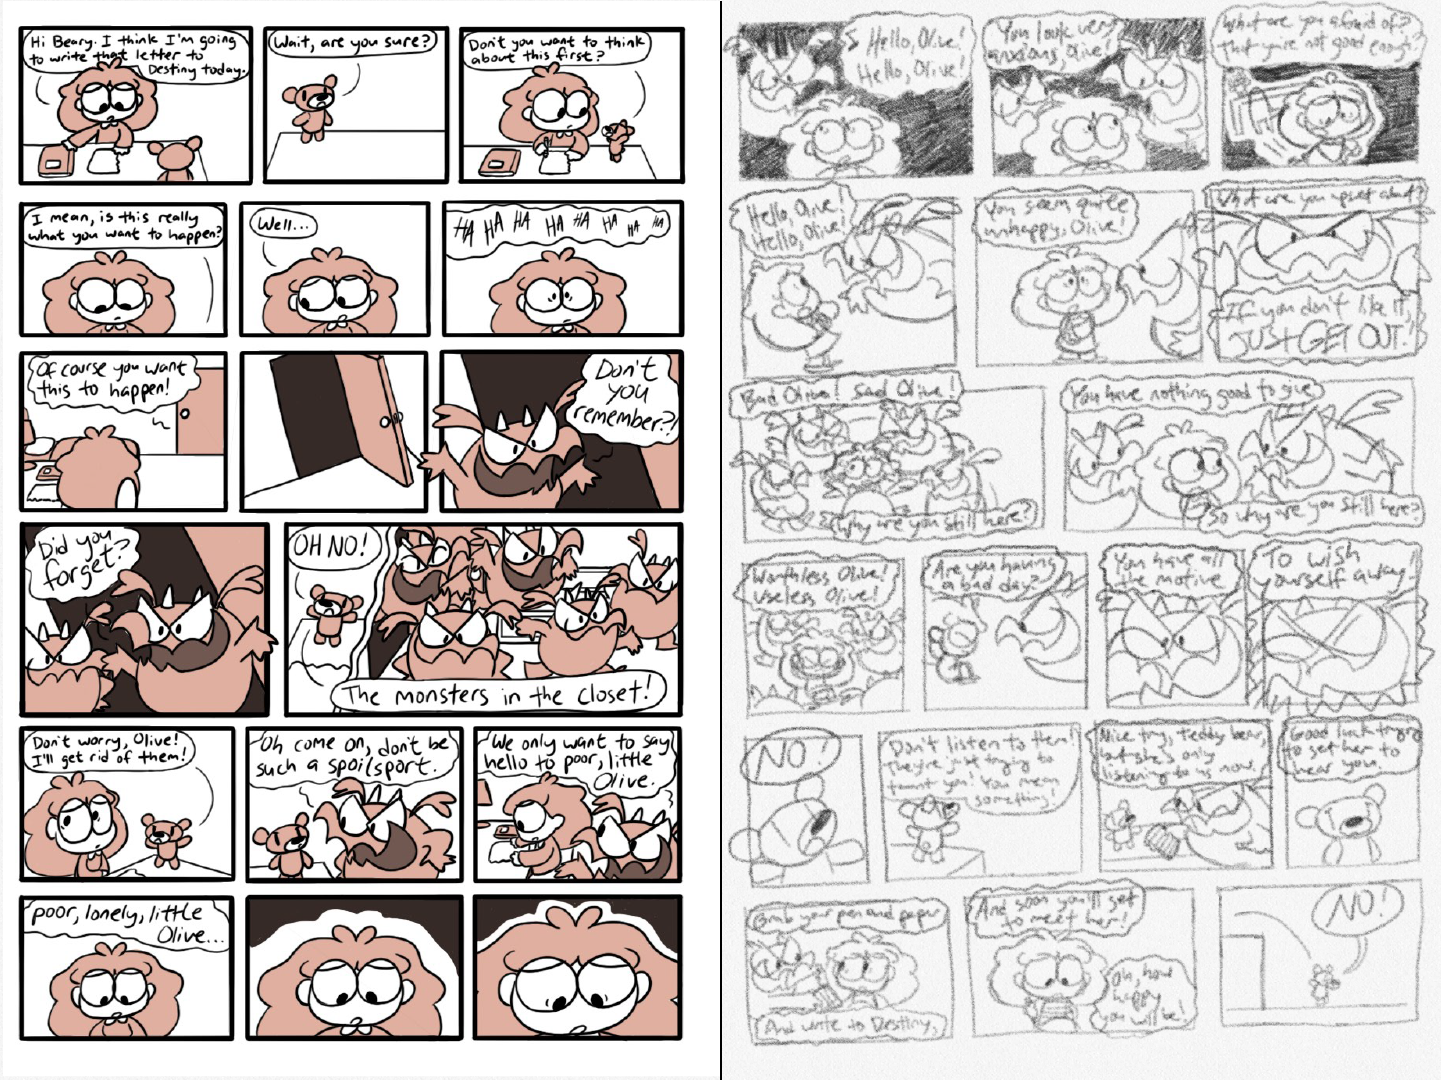
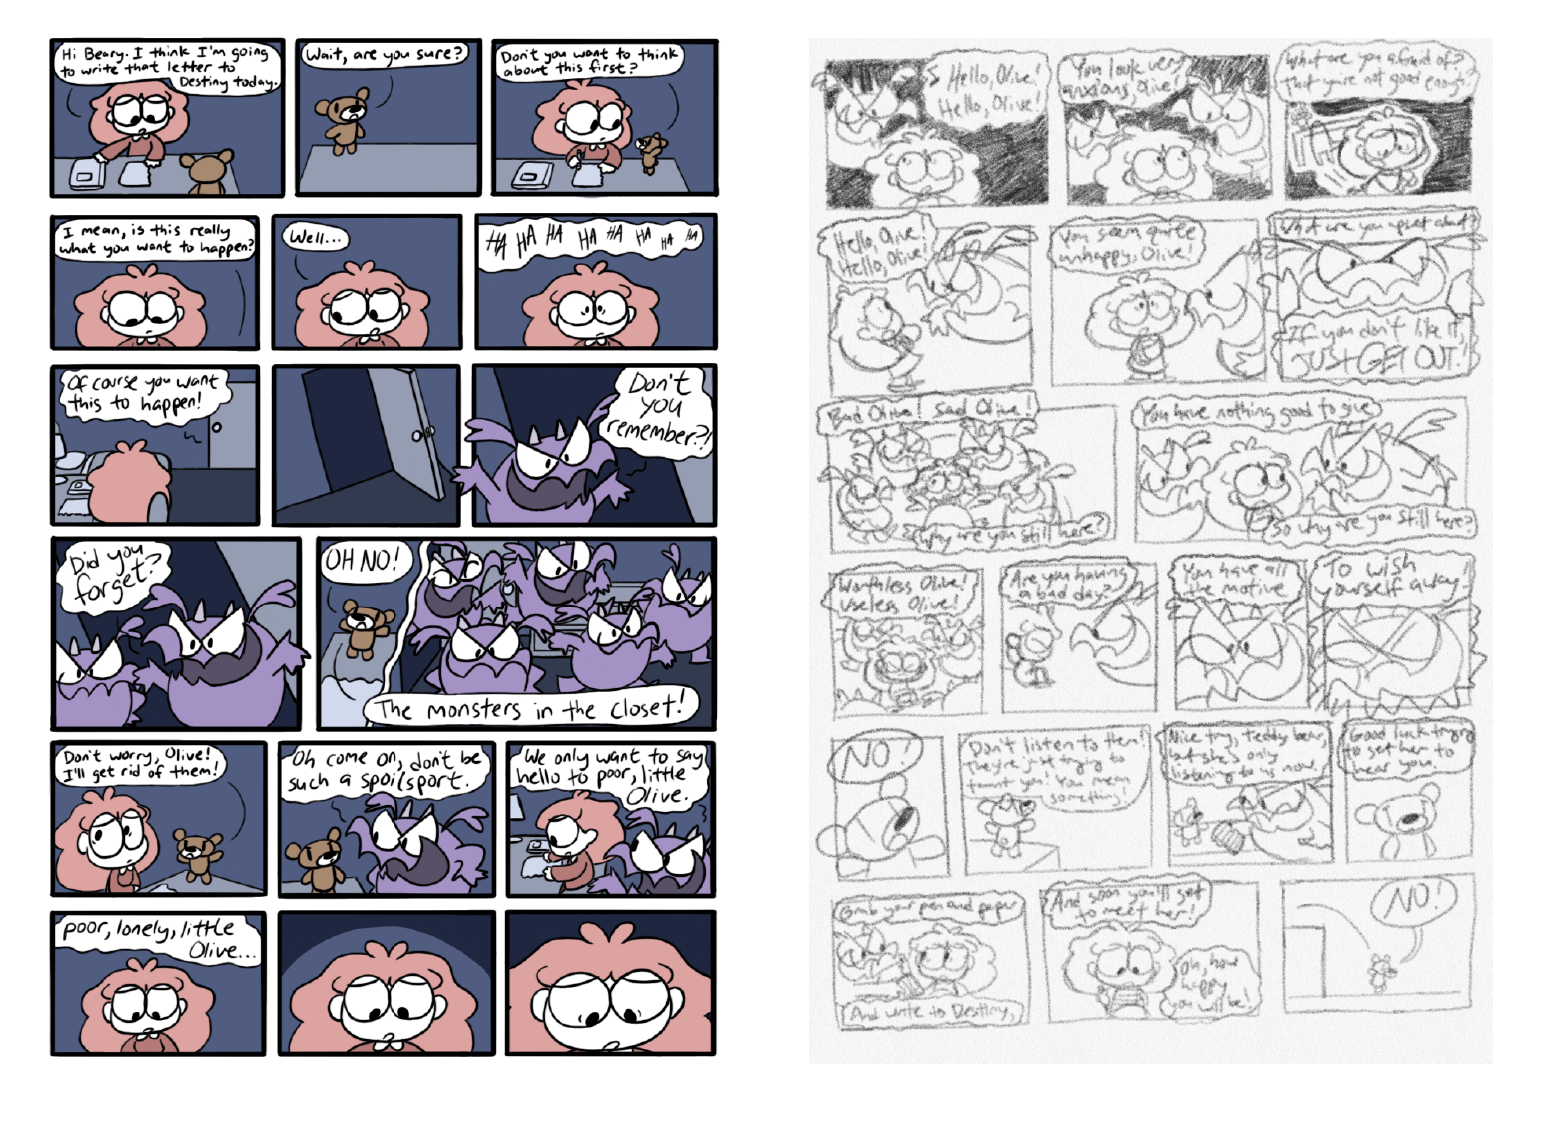
updating style, added new pages

diff --git a/here-and-away/script.js b/here-and-away/script.js
@@ -1,17 +1,31 @@
+var pageImg0 = '<img src="images/cover-page.png" alt="Cover page">';
 var pageImg1 = '<img src="images/page0-1.png" alt="Page 1">';
 var pageImg2 = '<img src="images/page2-3.png" alt="Pages 2-3">';
 var pageImg3 = '<img src="images/page4-5.png" alt="Pages 4-5">';
 var pageImg4 = '<img src="images/page6-7.png" alt="Pages 6-7">';
 var pageImg5 = '<img src="images/page8-9.png" alt="Pages 8-9">';
+var pageImg6 = '<img src="images/page10-11.png" alt="Pages 10-11">';
 
 var songVid1 = '<video width="100%" autoplay onended="stopSong()"><source src="videos/okay.mp4" type="video/mp4"></video>';
-var songVid2 = '<video width="100%" autoplay onended="stopSong()"><source src="videos/monsters.mp4" type="video/mp4"></video>';
+var songVid2 = '<video id="song-video-2" width="100%" autoplay onended="endedSong2()"><source src="videos/monsters.mp4" type="video/mp4"></video>';
 var songVid3 = '<video width="100%" autoplay onended="stopSong()"><source src="videos/deardestiny.mp4" type="video/mp4"></video>';
 var songVid4 = '<video width="100%" autoplay onended="stopSong()"><source src="videos/you.mp4" type="video/mp4"></video>';
 var songVid5 = '<video width="100%" autoplay onended="stopSong()"><source src="videos/okay2.mp4" type="video/mp4"></video>';
 
-var startButton1 = '<button onclick="playSong1()" type="button">Play</button>';
-var endButton1 = '<button onclick="stopSong()" type="button">Stop</button>';
+var startButton1 = '<button id="song-button-1" class="song-buttons font-patrick-hand" onclick="playSong1()" type="button">Play Song #1</button>';
+var endButton1 = '<button id="song-button-1" class="song-buttons font-patrick-hand" onclick="stopSong()" type="button">Stop Song #1</button>';
+
+var startButton2 = '<button id="song-button-2" class="song-buttons font-patrick-hand" onclick="playSong2()" type="button">Play Song #2</button>';
+var endButton2 = '<button id="song-button-2" class="song-buttons font-patrick-hand" onclick="stopSong2()" type="button">Stop Song #2</button>';
+
+var startButton3 = '<button id="song-button-3" class="song-buttons font-patrick-hand" onclick="playSong3()" type="button">Play Song #3</button>';
+var endButton3 = '<button id="song-button-3" class="song-buttons font-patrick-hand" onclick="stopSong()" type="button">Stop Song #3</button>';
+
+var startButton4 = '<button id="song-button-4" class="song-buttons font-patrick-hand" onclick="playSong4()" type="button">Play Song #4</button>';
+var endButton4 = '<button id="song-button-4" class="song-buttons font-patrick-hand" onclick="stopSong()" type="button">Stop Song #4</button>';
+
+var startButton5 = '<button id="song-button-5" class="song-buttons font-patrick-hand" onclick="playSong5()" type="button">Play Song #5</button>';
+var endButton5 = '<button id="song-button-5" class="song-buttons font-patrick-hand" onclick="stopSong()" type="button">Stop Song #5</button>';
 
 var pageContent = document.getElementById("page-content");
 var buttonDiv = document.getElementById("button-div");
@@ -27,67 +41,132 @@ function playSong1() {
     buttonDiv.innerHTML = endButton1;
 }
 
+function playSong2() {
+    pageContent.innerHTML = songVid2;
+    buttonDiv.innerHTML = endButton2;
+    var songVideo2 = document.getElementById("song-video-2");
+    var turnedPage = false;
+    while (turnedPage == false) {
+//        if (songVideo2.ended) {
+//            
+//        }
+        if (songVideo2.currentTime >= 10) {
+            turnedPage = true;
+        }
+    }
+}
+
+function playSong3() {
+    pageContent.innerHTML = songVid3;
+    buttonDiv.innerHTML = endButton3;
+}
+
+function playSong4() {
+    pageContent.innerHTML = songVid4;
+    buttonDiv.innerHTML = endButton4;
+}
+
+function playSong5() {
+    pageContent.innerHTML = songVid5;
+    buttonDiv.innerHTML = endButton5;
+}
+
 function stopSong() {
     if (currPageNum == 1) {
+        pageContent.innerHTML = pageImg0;
+    } else if (currPageNum == 2) {
         pageContent.innerHTML = pageImg1;
         buttonDiv.innerHTML = startButton1;
-    } else if (currPageNum == 2) {
-        pageContent.innerHTML = pageImg2;
     } else if (currPageNum == 3) {
-        pageContent.innerHTML = pageImg3;
+        pageContent.innerHTML = pageImg2;
     } else if (currPageNum == 4) {
-        pageContent.innerHTML = pageImg4;
+        pageContent.innerHTML = pageImg3;
+        buttonDiv.innerHTML = startButton3;
     } else if (currPageNum == 5) {
+        pageContent.innerHTML = pageImg4;
+    } else if (currPageNum == 6) {
         pageContent.innerHTML = pageImg5;
+        buttonDiv.innerHTML = startButton4;
+    } else if (currPageNum == 7) {
+        pageContent.innerHTML = pageImg6;
+        buttonDiv.innerHTML = startButton5;
     }
+}
+
+function stopSong2() {
+    
+}
+
+function endedSong2() {
+    
 }
 
 function goToPrevPage() {
     if (currPageNum == 2) {
-        pageContent.innerHTML = pageImg1;
-        pageNumDisplay.innerHTML = "1/6";
+        pageContent.innerHTML = pageImg0;
+        pageNumDisplay.innerHTML = "1/7";
         currPageNum = 1;
+        buttonDiv.innerHTML = "";
     } else if (currPageNum == 3) {
-        pageContent.innerHTML = pageImg2;
-        pageNumDisplay.innerHTML = "2/6";
+        pageContent.innerHTML = pageImg1;
+        pageNumDisplay.innerHTML = "2/7";
         currPageNum = 2;
+        buttonDiv.innerHTML = startButton1;
     } else if (currPageNum == 4) {
-        pageContent.innerHTML = pageImg3;
-        pageNumDisplay.innerHTML = "3/6";
+        pageContent.innerHTML = pageImg2;
+        pageNumDisplay.innerHTML = "3/7";
         currPageNum = 3;
+        buttonDiv.innerHTML = startButton2;
     } else if (currPageNum == 5) {
-        pageContent.innerHTML = pageImg4;
-        pageNumDisplay.innerHTML = "4/6";
+        pageContent.innerHTML = pageImg3;
+        pageNumDisplay.innerHTML = "4/7";
         currPageNum = 4;
+        buttonDiv.innerHTML = startButton3;
     } else if (currPageNum == 6) {
-        pageContent.innerHTML = pageImg5;
-        pageNumDisplay.innerHTML = "5/6";
+        pageContent.innerHTML = pageImg4;
+        pageNumDisplay.innerHTML = "5/7";
         currPageNum = 5;
+        buttonDiv.innerHTML = "";
+    } else if (currPageNum == 7) {
+        pageContent.innerHTML = pageImg5
+        pageNumDisplay.innerHTML = "6/7";
+        currPageNum = 6;
+        buttonDiv.innerHTML = startButton4;
     }
     updateDisabledButtons();
 }
 
 function goToNextPage() {
     if (currPageNum == 1) {
-        pageContent.innerHTML = pageImg2;
-        pageNumDisplay.innerHTML = "2/6";
+        pageContent.innerHTML = pageImg1;
+        pageNumDisplay.innerHTML = "2/7";
         currPageNum = 2;
+        buttonDiv.innerHTML = startButton1;
     } else if (currPageNum == 2) {
-        pageContent.innerHTML = pageImg3;
-        pageNumDisplay.innerHTML = "3/6";
+        pageContent.innerHTML = pageImg2;
+        pageNumDisplay.innerHTML = "3/7";
         currPageNum = 3;
+        buttonDiv.innerHTML = startButton2;
     } else if (currPageNum == 3) {
-        pageContent.innerHTML = pageImg4;
-        pageNumDisplay.innerHTML = "4/6";
+        pageContent.innerHTML = pageImg3;
+        pageNumDisplay.innerHTML = "4/7";
         currPageNum = 4;
+        buttonDiv.innerHTML = startButton3;
     } else if (currPageNum == 4) {
-        pageContent.innerHTML = pageImg5;
-        pageNumDisplay.innerHTML = "5/6";
+        pageContent.innerHTML = pageImg4;
+        pageNumDisplay.innerHTML = "5/7";
         currPageNum = 5;
+        buttonDiv.innerHTML = "";
     } else if (currPageNum == 5) {
-        pageContent.innerHTML = pageImg6;
-        pageNumDisplay.innerHTML = "6/6";
+        pageContent.innerHTML = pageImg5;
+        pageNumDisplay.innerHTML = "6/7";
         currPageNum = 6;
+        buttonDiv.innerHTML = startButton4;
+    } else if (currPageNum == 6) {
+        pageContent.innerHTML = pageImg6;
+        pageNumDisplay.innerHTML = "7/7";
+        currPageNum = 7;
+        buttonDiv.innerHTML = startButton5;
     }
     updateDisabledButtons();
 }
@@ -97,10 +176,18 @@ updateDisabledButtons();
 function updateDisabledButtons() {
     if (currPageNum == 1) {
         prevButton.disabled = true;
-    } else if (currPageNum == 6) {
+        prevButton.style.opacity = 0.6;
+    } else if (currPageNum == 7) {
         nextButton.disabled = true;
+        nextButton.style.opacity = 0.6;
     } else {
         prevButton.disabled = false;
         nextButton.disabled = false;
+        prevButton.style.opacity = 1;
+        nextButton.style.opacity = 1;
     }
 }
+
+
+//var page = document.getElementById("page");
+

diff --git a/here-and-away/index.html b/here-and-away/index.html
@@ -3,29 +3,35 @@
 <head>
     <meta charset="utf-8">
     <meta name="viewport" content="width=device-width, initial-scale=1.0">
-    <title>Here and Away</title>
+    <title>Here &amp; Away</title>
+    
+    <link rel="preconnect" href="https://fonts.gstatic.com">
+    <link href="https://fonts.googleapis.com/css2?family=Patrick+Hand&display=swap" rel="stylesheet">
+    
+    <link rel="preconnect" href="https://fonts.gstatic.com">
+    <link href="https://fonts.googleapis.com/css2?family=Caveat&display=swap" rel="stylesheet">
     
     <link rel="stylesheet" href="style.css">
 </head>
 
 <body>
     <header>
-        <h1>Here and Away</h1>
+        <h1>Here &amp; Away</h1>
     </header>
     
     <section>
         <div id="page-content">
-            <img src="images/page0-1.png" alt="">
+            <img id="page" src="images/cover-page.png" alt="">
         </div>
         
         <div id="button-div">
-            <button onclick="playSong1()" type="button">Play</button>
+<!--            <button id="song-button-1" class="song-buttons font-patrick-hand" onclick="playSong1()" type="button">Play Song #1</button>-->
         </div>
         
-        <div id="page-button-div">
-            <button id="prev-button" onclick="goToPrevPage()" type="button">Previous</button>
-            <div id="page-num-display">1/6</div>
-            <button id="next-button" onclick="goToNextPage()" type="button">Next</button>
+        <div id="page-button-div" class="font-patrick-hand">
+            <button id="prev-button" class="font-patrick-hand" onclick="goToPrevPage()" type="button">Previous</button>
+            <div id="page-num-display">1/7</div>
+            <button id="next-button" class="font-patrick-hand" onclick="goToNextPage()" type="button">Next</button>
         </div>
     </section>
     

diff --git a/here-and-away/style.css b/here-and-away/style.css
@@ -1,23 +1,63 @@
 
+body {
+    background-color: #959db2;
+}
+
+#button-div {
+    max-width: 880px;
+    position: relative;
+    top: -30px;
+    width: 100%;
+}
+
+.font-patrick-hand {
+    font-family: "Patrick Hand";
+}
+
+h1 {
+    font-family: "Caveat";
+    font-size: 2.7em;
+    padding: 15px 0 10px 20px;
+}
+
 header {
-    background-color: darkblue;
+    background-color: #505c81;
+    left: -10px;
+    padding-left: 17px;
+    position: relative;
+    top: -35px;
+    width: 100%;
 }
 
 header h1 {
     color: white;
 }
 
+#next-button, #prev-button {
+    background-color: #505c81;
+    border-radius: 7px;
+    color: white;
+    font-size: 1.2em;
+}
+
 #page-button-div {
     display: flex;
     justify-content: center;
+    position: relative;
+    top: -20px;
     width: 100%;
 }
 
 #page-content {
+    display: flex;
+    justify-content: center;
+    position: relative;
+    top: -40px;
     width: 100%;
 }
 
 #page-content img {
+    max-width: 880px;
     width: 100%;
 }
 
@@ -26,5 +66,24 @@ header h1 {
 }
 
 #page-num-display {
+    font-size: 1.2em;
     padding: -0 10px;
 }
+
+#song-button-1, #song-button-2, #song-button-4, #song-button-5 {
+    left: 65%;
+}
+
+#song-button-3 {
+    left: 15%;
+}
+
+.song-buttons {
+    background-color: #505c81;
+    border-radius: 7px;
+    color: white;
+    font-size: 1.2em;
+    position: relative;
+}
+
+
